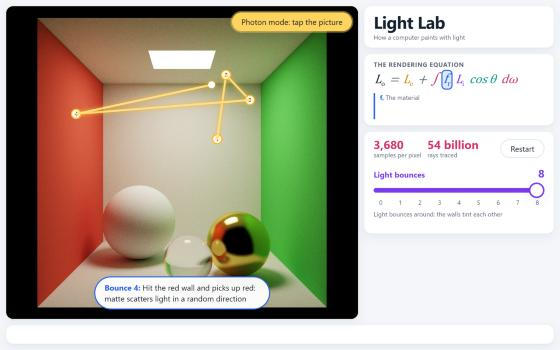
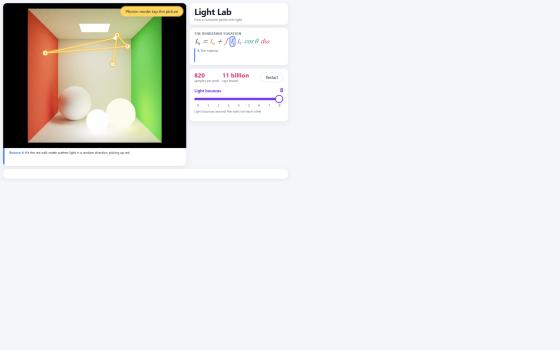
Move explanations out of the render into a caption bar under the picture

diff --git a/src/style.css b/src/style.css
@@ -82,13 +82,38 @@ html, body {
 
 #stage {
   grid-area: stage;
-  position: relative;
   min-height: 0;
-  background: #000;
+  display: flex;
+  flex-direction: column;
+  background: var(--surface);
   border-radius: var(--radius);
   overflow: hidden;
   box-shadow: var(--shadow);
 }
+
+#viewport {
+  position: relative;
+  flex: 1 1 0;
+  min-height: 0;
+  background: #000;
+}
+
+/* caption bar under the picture: fixed height so the render never resizes */
+#explain {
+  flex: none;
+  margin: 0;
+  height: calc(var(--fs-small) * 1.35 * 3 + var(--s-3) * 2);
+  padding: var(--s-3) var(--s-5);
+  border-left: 6px solid var(--line);
+  font-size: var(--fs-small);
+  line-height: 1.35;
+  color: var(--muted);
+  overflow: hidden;
+  transition: border-color 0.2s;
+}
+#explain strong { color: var(--ink); }
+#explain.show { border-left-color: var(--c-fr); color: var(--ink); }
+#explain.show strong { color: var(--c-fr); }
 
 #view {
   position: absolute;
@@ -236,24 +261,6 @@ h2 {
 .ticks { display: flex; justify-content: space-between; padding: 0 14px; color: var(--muted); font-size: var(--fs-small); margin-top: calc(var(--s-1) * -1); }
 .cap { margin: var(--s-2) 0 0; color: var(--muted); font-size: var(--fs-small); min-height: 2.8em; }
 
-#toast {
-  position: absolute;
-  left: 50%;
-  bottom: var(--s-5);
-  transform: translate(-50%, 12px);
-  max-width: calc(100% - 2 * var(--s-5));
-  padding: var(--s-3) var(--s-5);
-  border-radius: 999px;
-  background: rgba(255, 255, 255, 0.96);
-  box-shadow: var(--shadow);
-  border: 3px solid var(--c-fr);
-  font-size: var(--fs-body);
-  opacity: 0;
-  pointer-events: none;
-  transition: opacity 0.2s, transform 0.2s;
-}
-#toast strong { color: var(--c-fr); }
-#toast.show { opacity: 1; transform: translate(-50%, 0); }
 
 /* iPad portrait: title and equation share a row so the controls get the height */
 @media (orientation: portrait) {
@@ -330,4 +337,4 @@ h2 {
 }
 #photon-btn.on { background: #ffd45e; box-shadow: 0 0 0 4px rgba(255, 212, 94, 0.45), var(--shadow); }
 #photon-btn:active { transform: scale(0.97); }
-#stage.photon-mode #view { cursor: crosshair; }
+#viewport.photon-mode #view { cursor: crosshair; }

diff --git a/src/ui/controls.ts b/src/ui/controls.ts
@@ -16,6 +16,11 @@ const BOUNCE_CAPTION = (n: number): string =>
       ? 'Direct light: straight from the lamp to the surface'
       : 'Light bounces around: the walls tint each other';
 
+const HINT = {
+  title: 'Try it',
+  text: 'Tap a ball to change what it is made of, drag the slider to change bounces, or press Be a photon.',
+};
+
 export function formatCount(n: number): string {
   if (n >= 1e9) return `${(n / 1e9).toFixed(n >= 1e10 ? 0 : 1)} billion`;
   if (n >= 1e6) return `${(n / 1e6).toFixed(n >= 1e8 ? 0 : 1)} million`;
@@ -73,10 +78,13 @@ export function initControls(opts: {
   });
   syncBounces();
 
-  const toastEl = document.createElement('div');
-  toastEl.id = 'toast';
-  toastEl.setAttribute('role', 'status');
-  document.getElementById('stage')!.appendChild(toastEl);
+  // Explanations live in a caption bar under the picture (never over the render).
+  const explainEl = document.getElementById('explain')!;
+  const setHint = () => {
+    explainEl.classList.remove('show');
+    explainEl.innerHTML = `<strong>${HINT.title}</strong> <span>${HINT.text}</span>`;
+  };
+  setHint();
   let toastTimer = 0;
 
   return {
@@ -86,10 +94,10 @@ export function initControls(opts: {
       raysEl.textContent = formatCount(rays);
     },
     toast(title, text, ms = 2600) {
-      toastEl.innerHTML = `<strong>${title}:</strong> <span>${text}</span>`;
-      toastEl.classList.add('show');
+      explainEl.innerHTML = `<strong>${title}:</strong> <span>${text}</span>`;
+      explainEl.classList.add('show');
       window.clearTimeout(toastTimer);
-      toastTimer = window.setTimeout(() => toastEl.classList.remove('show'), ms);
+      toastTimer = window.setTimeout(setHint, ms);
     },
   };
 }

diff --git a/index.html b/index.html
@@ -9,8 +9,11 @@
   <body>
     <main id="app">
       <section id="stage" aria-label="Live path-traced scene">
-        <canvas id="view"></canvas>
-        <div id="hud" hidden></div>
+        <div id="viewport">
+          <canvas id="view"></canvas>
+          <div id="hud" hidden></div>
+        </div>
+        <p id="explain" role="status" aria-live="polite"></p>
       </section>
 
       <aside id="panel">

diff --git a/src/main.ts b/src/main.ts
@@ -122,7 +122,7 @@ const reset = () => {
 const eq = initEquation();
 const ui = initControls({ scene, reset, onTerm: (t) => eq.highlight(t) });
 photon = initPhoton({
-  stage: document.getElementById('stage')!,
+  stage: document.getElementById('viewport')!,
   view: canvas,
   scene,
   toast: ui.toast,

diff --git a/doc/roadmap/interaction.md b/doc/roadmap/interaction.md
@@ -18,6 +18,8 @@ it, the panel lights up that term (see [ui.md](ui.md), UI-003).
 
 ## Decisions
 
+- **Explanations never overlay the render** (2026-10-06): all captions (material names, photon steps, hints) go in the caption bar directly under the picture (`#explain`, fixed height so the render does not resize). Controls call `ui.toast(title, text, ms)`, which now writes there and reverts to a hint afterwards.
+
 - **Sandbox + hints, not a guided story** (2026-10-05): every control
   available at once; no Next buttons.
 - **v1 interactions** (2026-10-05): bounces + samples, materials + light,
@@ -96,7 +98,7 @@ a time (~600 ms per segment), each bounce labelled with what happened
 ("hit red wall → picks up red", "reached the lamp!"). Paths that escape or
 die are shown too. Tap again for a new random path from the same pixel.
 
-Result: `src/ui/photon.ts` (overlay canvas, 600 ms per segment, numbered hit dots, caption toast per bounce, equation term lit per step: first hit L_o, later hits f_r, slanted hit cos θ, lamp L_e, lost/out-of-bounces the integral) + `cos` field on PathSegment. Toggle button top-right of the picture; in photon mode taps do not change materials; any scene change clears the path and the tally. Screenshot: [img/int-004-photon-path.jpg](img/int-004-photon-path.jpg) (caption wording since improved). Overlay is drawn in CSS pixels from the 3D hit points every frame, so it stays aligned at any render scale or window size.
+Result: `src/ui/photon.ts` (overlay canvas, 600 ms per segment, numbered hit dots, caption per bounce, equation term lit per step: first hit L_o, later hits f_r, slanted hit cos θ, lamp L_e, lost/out-of-bounces the integral) + `cos` field on PathSegment. Toggle button top-right of the picture; in photon mode taps do not change materials; any scene change clears the path and the tally. Screenshot: [img/int-004-photon-path.jpg](img/int-004-photon-path.jpg). Overlay is drawn in CSS pixels from the 3D hit points every frame, so it stays aligned at any render scale or window size.
 
 **Finding (corrects the original criterion):** only ~5-7% of random paths reach the lamp (measured over 2000 seeds at several pixels, 2-8 bounces), not 'the common case'. Kept honest (no fake light shortcut): failed paths explain that most photons never find the lamp, which is why the picture starts noisy, and a running tally ('N of M photons found the lamp') is shown. A test asserts the 2-30% band.
 
